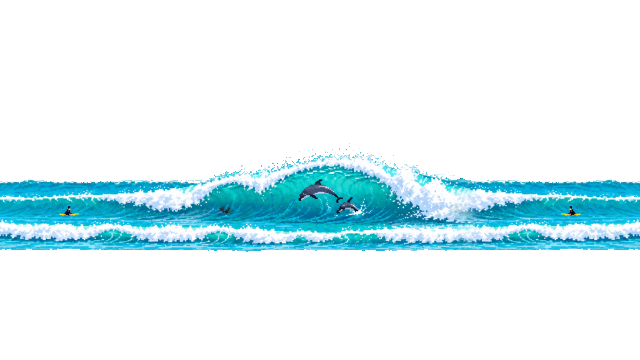
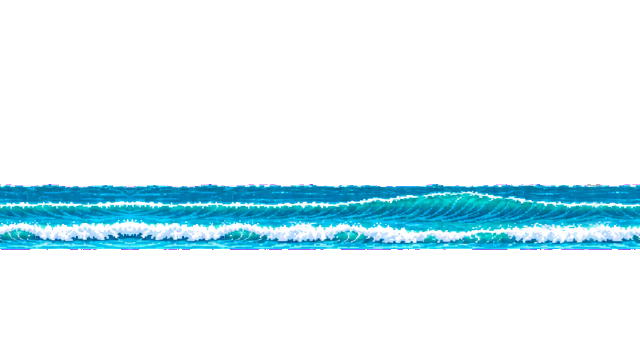
Fisher world: the wave breaks and dolphins jump
Replaces the swaying bands with Higgsfield frames: the big wave cycles
through 6 frames (calm, rises, curls, barrels, crashes, settles) and
dolphins jump out of the water and dive back in every few seconds
(8 frames). tools/hf_wave.py cuts both sprite sheets. Gameplay unchanged.

Claude-Session: https://claude.ai/code/session_01QtD76jBJKNxhcFL7MpEKaN

Changed region(s): [[0.0, 0.4278, 1.0, 0.7028]]

diff --git a/src/art/background.js b/src/art/background.js
@@ -15,7 +15,8 @@ import tulumCrowd3 from './world/solomun/crowd-3.png';
 //   tulum:   the wooden beach hut of his Tulum set, wicker lamps and a dancing crowd.
 //   layers:  the DJ worlds of levels 2+ (tools/world_djs.py): four pictures in src/art/world/<art>/
 //            (0-sky, 1-far, 2-mid, 3-near) scrolled at the world file's `parallax` speeds, plus an
-//            optional `effect` on top (snow, embers, sparkles, beams).
+//            optional `effect` on top (snow, embers, sparkles, beams), and optional `animate`
+//            (a layer that cycles through picture frames) and `jumpers` (dolphins).
 // Pits are plain black gaps in every world, like Mario 3.
 
 // The layers are drawn by tools/world_art.py and tools/world_solomun.py at the hero's pixel size
@@ -26,6 +27,13 @@ const worldLayers = import.meta.glob('./world/*/[0-9]-*.png', { eager: true, imp
 const layerKey = (path) => {
   const [, , art, file] = path.split('/');
   return `world-${art}-${file[0]}`;
+};
+// Animation frames of a world (Higgsfield-made too): src/art/world/<art>/<name>-<n>.png, for example
+// the Snapper wave cycle (wave-0..5) and the jumping dolphin (dolphin-0..7). Key: world-<art>-<name>-<n>.
+const worldFrames = import.meta.glob('./world/*/[a-z]*-[0-9].png', { eager: true, import: 'default' });
+const frameKey = (path) => {
+  const [, , art, file] = path.split('/');
+  return `world-${art}-${file.replace('.png', '')}`;
 };
 
 const TULUM_CROWD = [tulumCrowd0, tulumCrowd1, tulumCrowd2, tulumCrowd3];
@@ -45,6 +53,7 @@ export function preloadBackground(scene) {
   scene.load.image('tulum-lamps', tulumLampsImage);
   TULUM_CROWD.forEach((image, i) => scene.load.image(`tulum-crowd-${i}`, image));
   for (const [path, url] of Object.entries(worldLayers)) scene.load.image(layerKey(path), url);
+  for (const [path, url] of Object.entries(worldFrames)) scene.load.image(frameKey(path), url);
 }
 
 // theme: the world's `background` key (src/levels/worlds/): 'tulum', 'club' or 'layers'; world: the
@@ -135,56 +144,76 @@ function tulumLayers(scene, cam, ox, oy, layer) {
 }
 
 // A DJ world: its four layers, back to front, each scrolling at its parallax speed, and an effect.
-// A world's `motion` can make a layer move on its own: the layer is cut into horizontal bands of
-// its own picture, and each band swells up and down, sways or drifts (see snapper.js, the wave).
+// A world's `animate` can swap one layer through picture frames (the Snapper wave breaking), and its
+// `jumpers` puts creatures on a layer that jump out of the water now and then (the dolphins).
 function djLayers(scene, cam, ox, oy, layer, world) {
   const speeds = world.parallax ?? [0, 0.08, 0.18, 0.35];
-  const motion = world.motion ?? {};
-  const parts = [];
-  // The effect goes on top of every layer, or just over layer `effectUnder - 1` when set.
-  const effectAt = world.effectUnder ?? speeds.length;
-  let updateEffect = () => {};
-  speeds.forEach((speed, i) => {
-    if (i === effectAt) updateEffect = addEffect(scene, ox, oy, world.effect, world.effectArea);
-    const key = `world-${world.art}-${i}`;
-    const bands = motion[i];
-    if (!bands) {
-      parts.push({ sprite: layer(key, ox, oy, GAME_WIDTH, GAME_HEIGHT, 0), speed });
-      return;
-    }
-    bands.forEach((band, b) => {
-      const sprite = layer(bandTexture(scene, key, b, band.rows), ox, oy, GAME_WIDTH, GAME_HEIGHT, 0);
-      parts.push({ sprite, speed, band });
-    });
+  const updates = [];
+  const layers = speeds.map((speed, i) => {
+    const l = layer(`world-${world.art}-${i}`, ox, oy, GAME_WIDTH, GAME_HEIGHT, 0);
+    const anim = world.animate?.layer === i ? world.animate : null;
+    if (anim) updates.push(frameCycle(l, world.art, anim));
+    if (world.jumpers?.layer === i) updates.push(addJumpers(scene, cam, ox, oy, world.art, world.jumpers, speed));
+    return l;
   });
-  if (effectAt >= speeds.length) updateEffect = addEffect(scene, ox, oy, world.effect, world.effectArea);
+  const updateEffect = addEffect(scene, ox, oy, world.effect);
   return function update(time) {
-    const t = time / 1000;
-    for (const { sprite, speed, band } of parts) {
-      let x = (cam.scrollX * speed) / ART_SCALE;
-      if (band) {
-        const wave = (period, phase = 0) => Math.sin(((t / period) + phase) * Math.PI * 2);
-        // Whole screen pixels only, so the pixel art stays crisp.
-        sprite.y = oy + Math.round((band.swell ?? 0) * wave(band.period ?? 4, band.phase));
-        x -= ((band.sway ?? 0) * wave(band.swayPeriod ?? 6, band.phase) + (band.drift ?? 0) * t) / ART_SCALE;
-        x = Math.round(x * ART_SCALE) / ART_SCALE;
-      }
-      sprite.tilePositionX = x;
-    }
+    layers.forEach((l, i) => {
+      l.tilePositionX = (cam.scrollX * speeds[i]) / ART_SCALE;
+    });
+    for (const u of updates) u(time);
     updateEffect(time);
   };
 }
 
-// One band (picture rows [top, bottom)) of a world layer as its own texture, the rest see-through.
-// Made once; textures outlive scene restarts.
-function bandTexture(scene, key, index, [top, bottom]) {
-  const bandKey = `${key}-band-${index}`;
-  if (scene.textures.exists(bandKey)) return bandKey;
-  const source = scene.textures.get(key).getSourceImage();
-  const canvas = scene.textures.createCanvas(bandKey, source.width, source.height);
-  canvas.context.drawImage(source, 0, top, source.width, bottom - top, 0, top, source.width, bottom - top);
-  canvas.refresh();
-  return bandKey;
+// Shows a layer's frames one after another, each for its own time (ms), and starts over.
+function frameCycle(l, art, { frames, ms }) {
+  const total = ms.reduce((a, b) => a + b, 0);
+  let shown = -1;
+  return function update(time) {
+    let t = time % total;
+    let n = 0;
+    while (t >= ms[n]) t -= ms[n++];
+    if (n !== shown) {
+      l.setTexture(`world-${art}-${frames}-${n}`);
+      shown = n;
+    }
+  };
+}
+
+// Creatures that jump out of the water and dive back in, every few seconds somewhere on screen,
+// sometimes two together. They sit on their layer (scroll with it) with their feet on `waterY`.
+function addJumpers(scene, cam, ox, oy, art, cfg, speed) {
+  const { frames, count, frameMs, every, waterY, drift } = cfg;
+  const pool = [0, 1].map(() => scene.add.image(0, 0, `world-${art}-${frames}-0`).setOrigin(0.5, 1).setScale(ART_SCALE).setScrollFactor(0).setVisible(false));
+  let next = 1500;
+  const jumps = [];
+  const start = (sprite, x, flip, at) => jumps.push({ sprite, x, flip, at });
+  return function update(time) {
+    if (time >= next) {
+      const x = cam.scrollX * speed + Phaser.Math.Between(40, GAME_WIDTH - 40);
+      const flip = Math.random() < 0.5;
+      if (!pool[0].visible) start(pool[0], x, flip, time);
+      if (Math.random() < 0.4 && !pool[1].visible) start(pool[1], x + (flip ? 16 : -16), flip, time + 220);
+      next = time + Phaser.Math.Between(every[0], every[1]);
+    }
+    for (let i = jumps.length - 1; i >= 0; i--) {
+      const j = jumps[i];
+      const n = Math.floor((time - j.at) / frameMs);
+      if (n < 0) continue;
+      if (n >= count) {
+        j.sprite.setVisible(false);
+        jumps.splice(i, 1);
+        continue;
+      }
+      const dx = (j.flip ? -1 : 1) * drift * n;
+      j.sprite
+        .setTexture(`world-${art}-${frames}-${n}`)
+        .setFlipX(j.flip)
+        .setVisible(true)
+        .setPosition(ox + Math.round(j.x + dx - cam.scrollX * speed), oy + waterY);
+    }
+  };
 }
 
 // Little moving things over the backdrop (behind the level), fixed to the screen.
@@ -192,12 +221,10 @@ const EFFECTS = {
   snow: { count: 40, colors: [0xfdfefd, 0xcfd8ec], fall: [12, 26], drift: 8, size: 1 },
   embers: { count: 22, colors: [0xf5b04a, 0xe0801e, 0xffe08a], fall: [-18, -8], drift: 6, size: 1 },
   sparkles: { count: 26, colors: [0xfdfefd, 0xf5c35c, 0x7ad0ff, 0xff6aa8], fall: [0, 0], drift: 0, size: 1, twinkle: true },
-  glints: { count: 30, colors: [0xfdfefd, 0xd8f6ff], fall: [0, 0], drift: 3, size: 1, twinkle: true }, // sun on the water
   beams: { beams: [0xff5a8a, 0x7ad0ff, 0xffd060, 0xff5a8a] },
 };
 
-// area: [top, bottom] in screen pixels where the effect shows (default: the whole sky).
-function addEffect(scene, ox, oy, name, area = [0, GAME_HEIGHT - 40]) {
+function addEffect(scene, ox, oy, name) {
   const fx = EFFECTS[name];
   if (!fx) return () => {};
   if (fx.beams) {
@@ -213,7 +240,7 @@ function addEffect(scene, ox, oy, name, area = [0, GAME_HEIGHT - 40]) {
     const dot = scene.add.rectangle(0, 0, fx.size, fx.size, fx.colors[i % fx.colors.length])
       .setOrigin(0).setScrollFactor(0).setAlpha(0.8);
     dot.bx = Math.random() * GAME_WIDTH;
-    dot.by = Phaser.Math.FloatBetween(area[0], area[1]);
+    dot.by = Math.random() * GAME_HEIGHT;
     dot.speed = Phaser.Math.FloatBetween(fx.fall[0], fx.fall[1]);
     dot.phase = Math.random() * Math.PI * 2;
     dots.push(dot);
@@ -221,7 +248,7 @@ function addEffect(scene, ox, oy, name, area = [0, GAME_HEIGHT - 40]) {
   return function update(time) {
     const t = time / 1000;
     for (const d of dots) {
-      const y = Phaser.Math.Wrap(d.by + d.speed * t, area[0], area[1]);
+      const y = Phaser.Math.Wrap(d.by + d.speed * t, 0, GAME_HEIGHT - 40);
       const x = Phaser.Math.Wrap(d.bx + Math.sin(t + d.phase) * fx.drift, 0, GAME_WIDTH);
       d.setPosition(ox + Math.round(x), oy + Math.round(y));
       if (fx.twinkle) d.setAlpha(0.3 + 0.7 * Math.max(0, Math.sin(t * 3 + d.phase)));

diff --git a/src/levels/worlds/snapper.js b/src/levels/worlds/snapper.js
@@ -1,7 +1,7 @@
 // WORLD: SNAPPER, fisher's world: Snapper Rocks on the Gold Coast: the rock shelf, breaking waves, the patrol tower, dolphins and the skyline across the bay (levels-input/fisher/world 02-06).
 // Looks only. Gameplay files (src/levels/gameplay/) name this world but never change it.
 // Art: made in Higgsfield (pictures in project files art/worlds/snapper/), shrunk into
-// src/art/world/snapper/ with `python3 tools/hf_world.py <dir> snapper far=0.9,0.415,0.5 mid=1,0.7,0.5
+// src/art/world/snapper/ with (2-mid.png is now wave-0 from tools/hf_wave.py) `python3 tools/hf_world.py <dir> snapper far=0.9,0.415,0.5 mid=1,0.7,0.5
 // near=0.8,0.775,0.5 seam=mid:edge dim=near:0.9`; the 'layers' builder in src/art/background.js puts them together.
 export default {
   id: 'snapper',
@@ -10,26 +10,19 @@ export default {
   background: 'layers', // builder in src/art/background.js
   art: 'snapper', // src/art/world/snapper/0-sky.png .. 3-near.png
   parallax: [0, 0.05, 0.15, 0.35], // how fast each layer scrolls with the camera
-  // The wave moves (Sandro, 2026-11-21): the mid picture is cut into the big breaking wave and the
-  // front line of foam, which swell up and down out of step, the wave sways and the foam rolls along.
-  // rows: picture rows of 2-mid.png; swell/sway in screen pixels, drift in pixels per second.
-  motion: {
-    2: [
-      { rows: [140, 216], swell: 3, period: 3.6, sway: 6, swayPeriod: 7 },
-      { rows: [216, 252], swell: 2, period: 2.8, phase: 0.4, drift: 6 },
-    ],
-  },
-  effect: 'glints', // sun glinting on the sea, see EFFECTS in src/art/background.js
-  effectArea: [74, 132], // the sea, in screen pixels
-  effectUnder: 3, // under the tower and the rocks
+  // The sea moves (Sandro, 2026-11-21): the big wave builds, curls, crashes and settles again, and
+  // dolphins jump out of the water and dive back in. Higgsfield sprite sheets, cut by
+  // `python3 tools/hf_wave.py <wave-sheet> <dolphin-sheet>` (project files art/worlds/snapper/motion/).
+  animate: { layer: 2, frames: 'wave', ms: [1600, 450, 400, 550, 500, 750] }, // calm, rises, curls, barrels, crashes, settles
+  jumpers: { layer: 2, frames: 'dolphin', count: 8, frameMs: 120, every: [2500, 5500], waterY: 114, drift: 3 },
+  effect: null,
   tiles: 'tiles', // tileset (src/art/world/tiles.png, shared for now)
   pit: 'black',
   layers: [
     'sky: bright midday sky and the open turquoise sea (fixed; its own palette, no dusk)',
     'far: the Gold Coast skyline and a green headland on the horizon (0.05)',
-    'mid: a big breaking turquoise wave with two dolphins and tiny surfers (0.15)',
+    'mid: a big turquoise wave that builds, breaks and reforms (6 frames), dolphins jumping in front of it (0.15)',
     'near: the yellow patrol tower with a palm and surfboards on sand, and the dark rock shelf (0.35)',
-    'motion: the wave swells and sways, the foam rolls along, the sun glints on the water',
   ],
   motifs: ['rock shelf: uneven low steps', 'wide water gaps (pits)', 'the fishing rod (boss)'],
 };

diff --git a/tools/hf_wave.py b/tools/hf_wave.py
@@ -1,0 +1,96 @@
+"""Snapper (Fisher) world: the moving sea, from two Higgsfield sprite sheets on magenta.
+python3 tools/hf_wave.py <wave-sheet.png> <dolphin-sheet.png>
+
+wave-sheet: six wide strips of the same sea stacked top to bottom, one big wave going through
+its cycle (calm, rises, curls, barrels, crashes, settles). Each strip becomes a full mid layer
+picture src/art/world/snapper/wave-<n>.png (640x360, the strip's bottom on row 250 like the old
+mid layer, the right edge mirrored in so it tiles, the wave moved SHIFT px right); 2-mid.png is wave-0.
+dolphin-sheet: one row of 8 cells, a dolphin jumping out and diving back in, each over a strip of
+water. The water is cut off (the dolphin's own pixels below the water line stay) and each cell
+becomes src/art/world/snapper/dolphin-<n>.png, bottom = the water line.
+Pictures: project files art/worlds/snapper/motion/."""
+import sys, os
+import numpy as np
+from PIL import Image
+
+OUT = os.path.join(os.path.dirname(__file__), '..', 'src', 'art', 'world', 'snapper')
+W, H, BOTTOM = 640, 360, 250
+SHIFT = 130  # move the big wave right, so it isn't hidden behind the patrol tower at the start
+DOLPHIN_SCALE = 0.4
+
+
+def keyed(path):
+    a = np.array(Image.open(path).convert('RGBA')).astype(int)
+    r, g, b = a[..., 0], a[..., 1], a[..., 2]
+    # magenta and its pink fringe: red and blue well above green
+    mag = (r - g > 90) & (b - g > 90)
+    a[..., 3] = np.where(mag, 0, 255)
+    return a.astype(np.uint8), mag
+
+
+def runs(counts, min_count):
+    out, start = [], None
+    for i, v in enumerate(list(counts) + [0]):
+        if v > min_count and start is None:
+            start = i
+        elif v <= min_count and start is not None:
+            out.append((start, i))
+            start = None
+    return out
+
+
+def tile_edge(im):
+    # the right 30% becomes the left 30% mirrored, softly joined, so the band tiles sideways
+    e = round(W * 0.3)
+    flip = im.crop((0, 0, e, im.height)).transpose(Image.FLIP_LEFT_RIGHT)
+    right = im.crop((W - e, 0, W, im.height))
+    mask = Image.new('L', (e, im.height))
+    for x in range(e):
+        mask.paste(min(255, round(255 * x / 32)), (x, 0, x + 1, im.height))
+    im.paste(Image.composite(flip, right, mask), (W - e, 0))
+    return im
+
+
+def waves(path):
+    a, mag = keyed(path)
+    strips = runs((~mag).sum(1), 20)
+    assert len(strips) == 6, strips
+    for n, (top, bottom) in enumerate(strips):
+        strip = Image.fromarray(a[top:bottom])
+        k = W / strip.width
+        strip = strip.resize((W, round(strip.height * k)), Image.BOX)
+        layer = Image.new('RGBA', (W, H))
+        layer.alpha_composite(strip, (0, BOTTOM - strip.height))
+        layer = tile_edge(layer)
+        layer = Image.fromarray(np.roll(np.array(layer), SHIFT, axis=1))
+        layer.save(os.path.join(OUT, f'wave-{n}.png'))
+        if n == 0:
+            layer.save(os.path.join(OUT, '2-mid.png'))
+        print('wave', n, strip.size)
+
+
+def dolphins(path):
+    a, mag = keyed(path)
+    cells = runs((~mag).sum(0), 0)
+    assert len(cells) == 8, cells
+    # the water line: the first row where the last cell (only splash and water) is mostly water
+    last = cells[-1]
+    water = next(y for y in range(a.shape[0]) if (~mag[y, last[0]:last[1]]).sum() > 0.6 * (last[1] - last[0]))
+    r, g, b = a[..., 0], a[..., 1], a[..., 2]
+    grey = (abs(r - g) < 40) & (b - r < 70) & (r < 200)  # dolphin body, not teal water or foam
+    below = np.zeros_like(mag)
+    below[water + 2:] = True
+    a[..., 3] = np.where(below & ~grey, 0, a[..., 3])
+    rows = (a[..., 3] > 0).sum(1).nonzero()[0]
+    top = rows[0]
+    cell_w = max(c[1] - c[0] for c in cells)
+    for n, (x0, x1) in enumerate(cells):
+        cx = (x0 + x1) // 2
+        cell = Image.fromarray(a[top:water + 6, cx - cell_w // 2: cx + cell_w // 2])
+        size = (round(cell.width * DOLPHIN_SCALE), round(cell.height * DOLPHIN_SCALE))
+        cell.resize(size, Image.BOX).save(os.path.join(OUT, f'dolphin-{n}.png'))
+    print('dolphins', len(cells), size)
+
+
+waves(sys.argv[1])
+dolphins(sys.argv[2])
